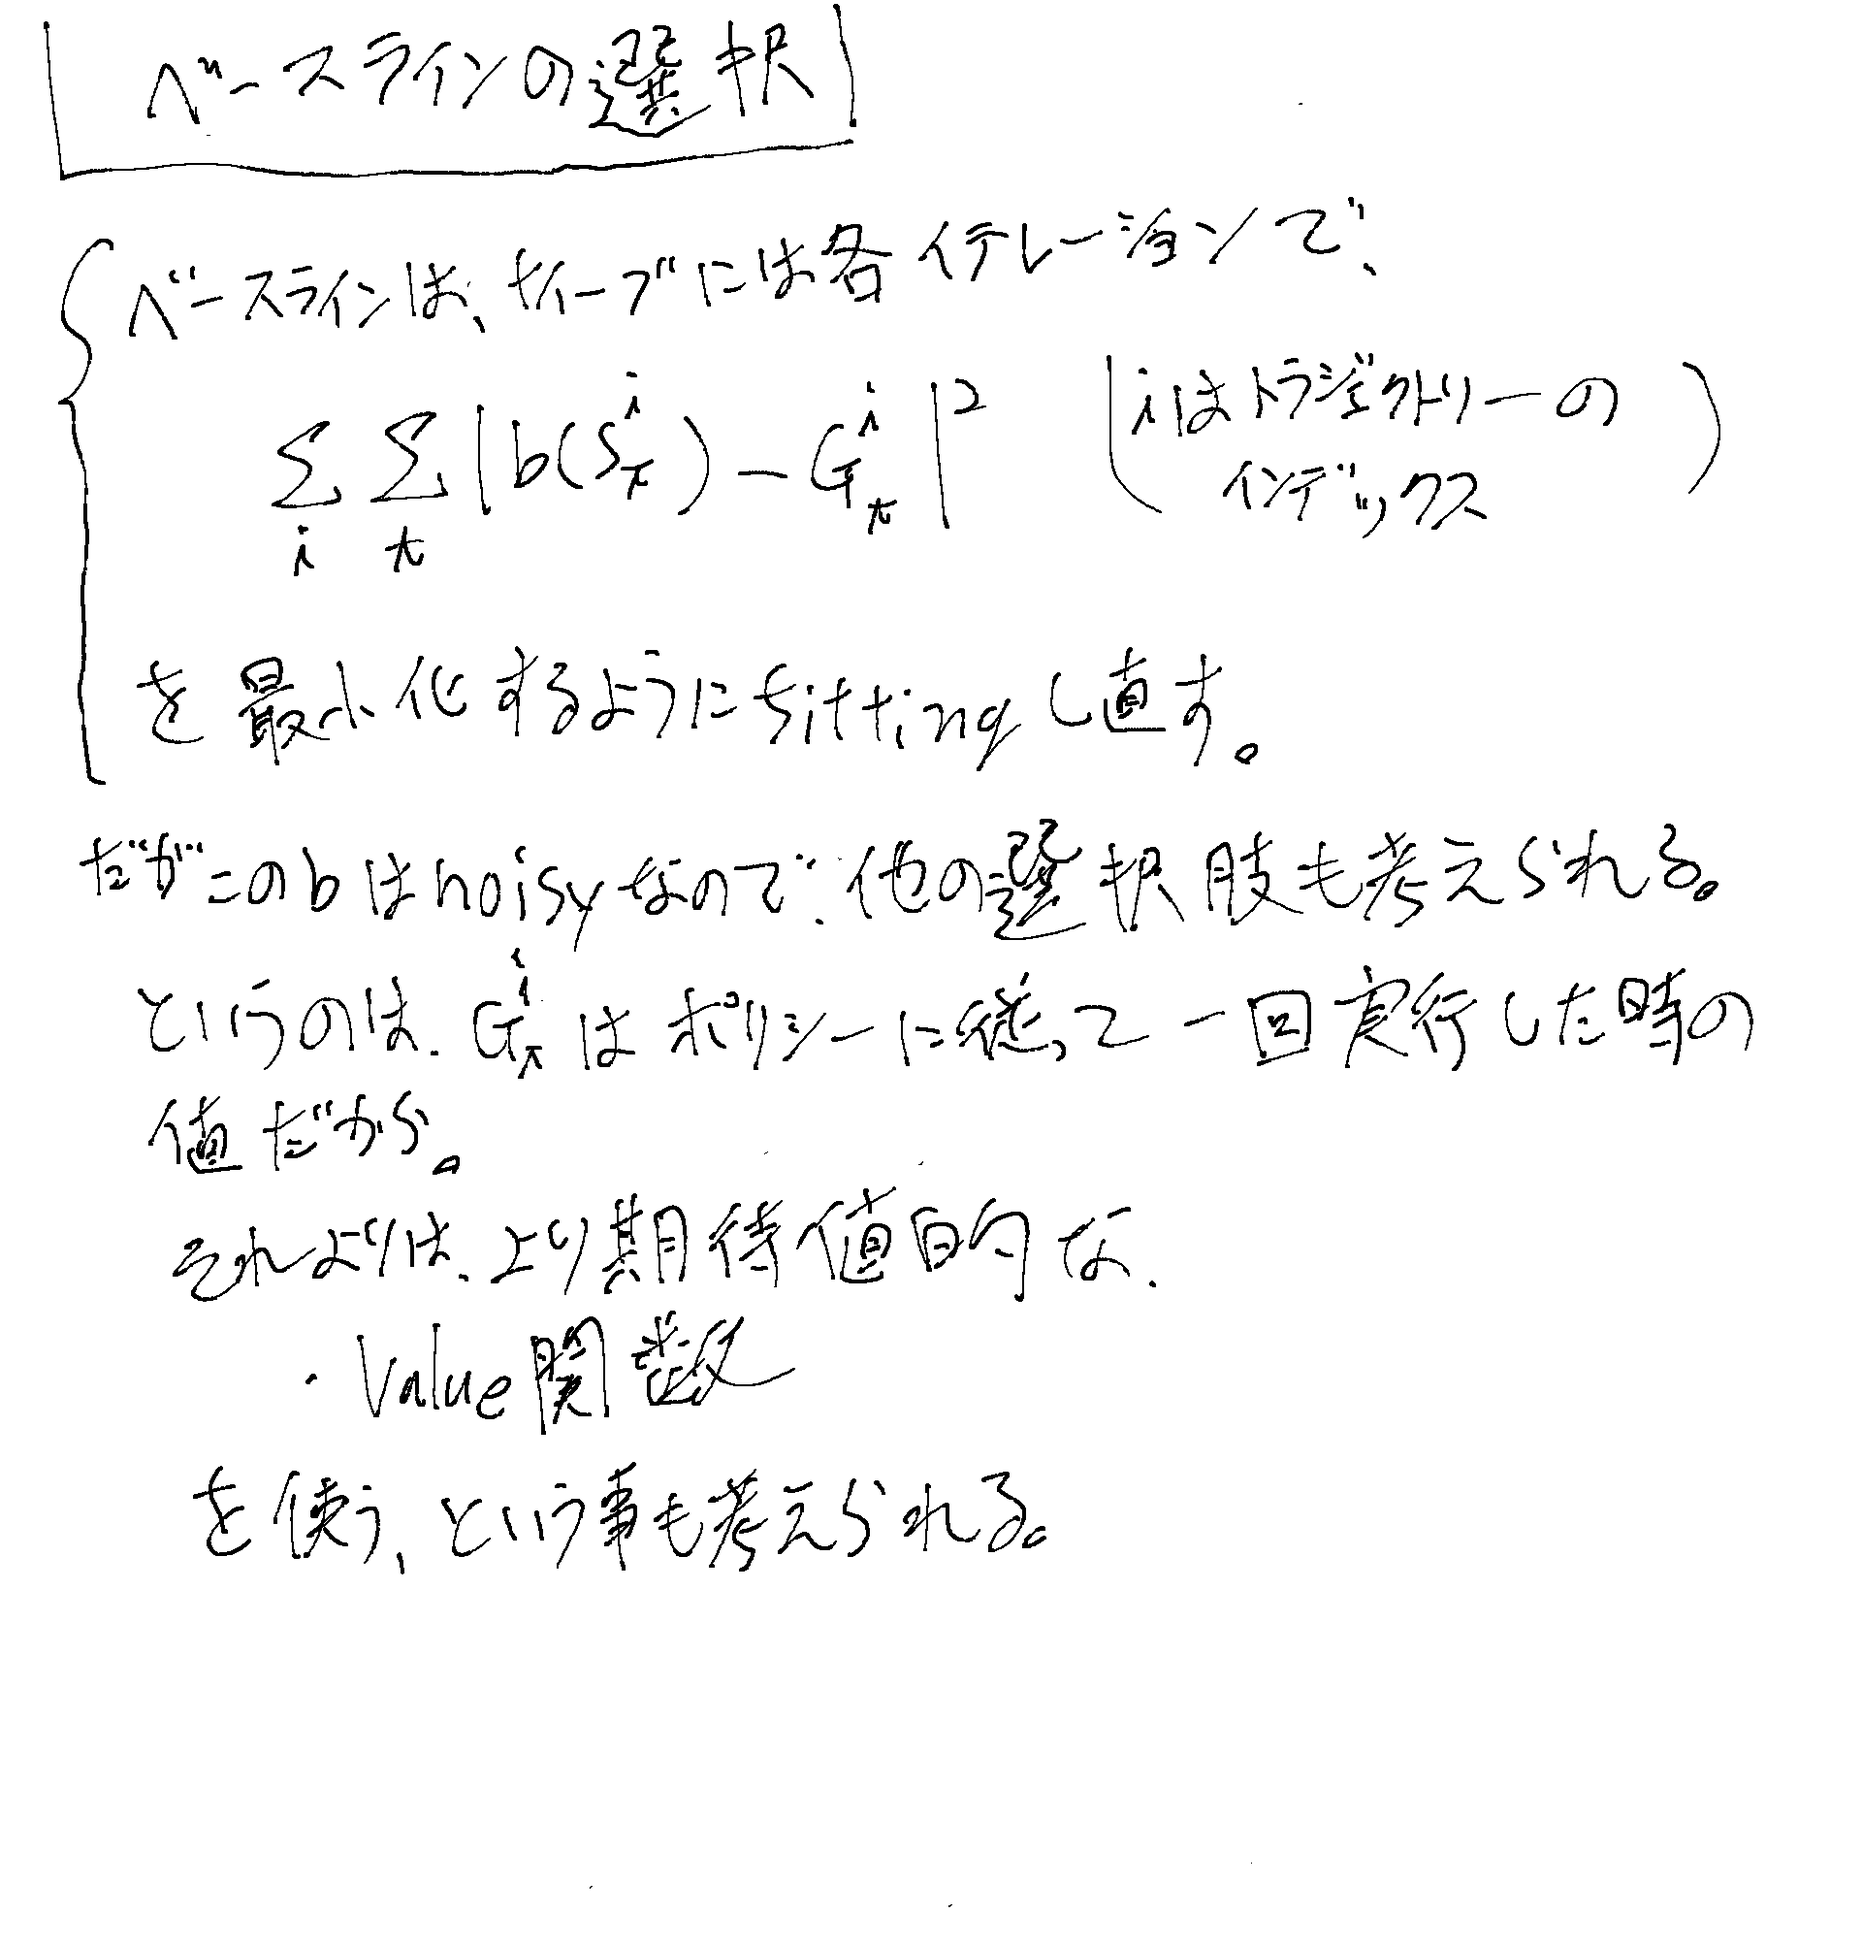
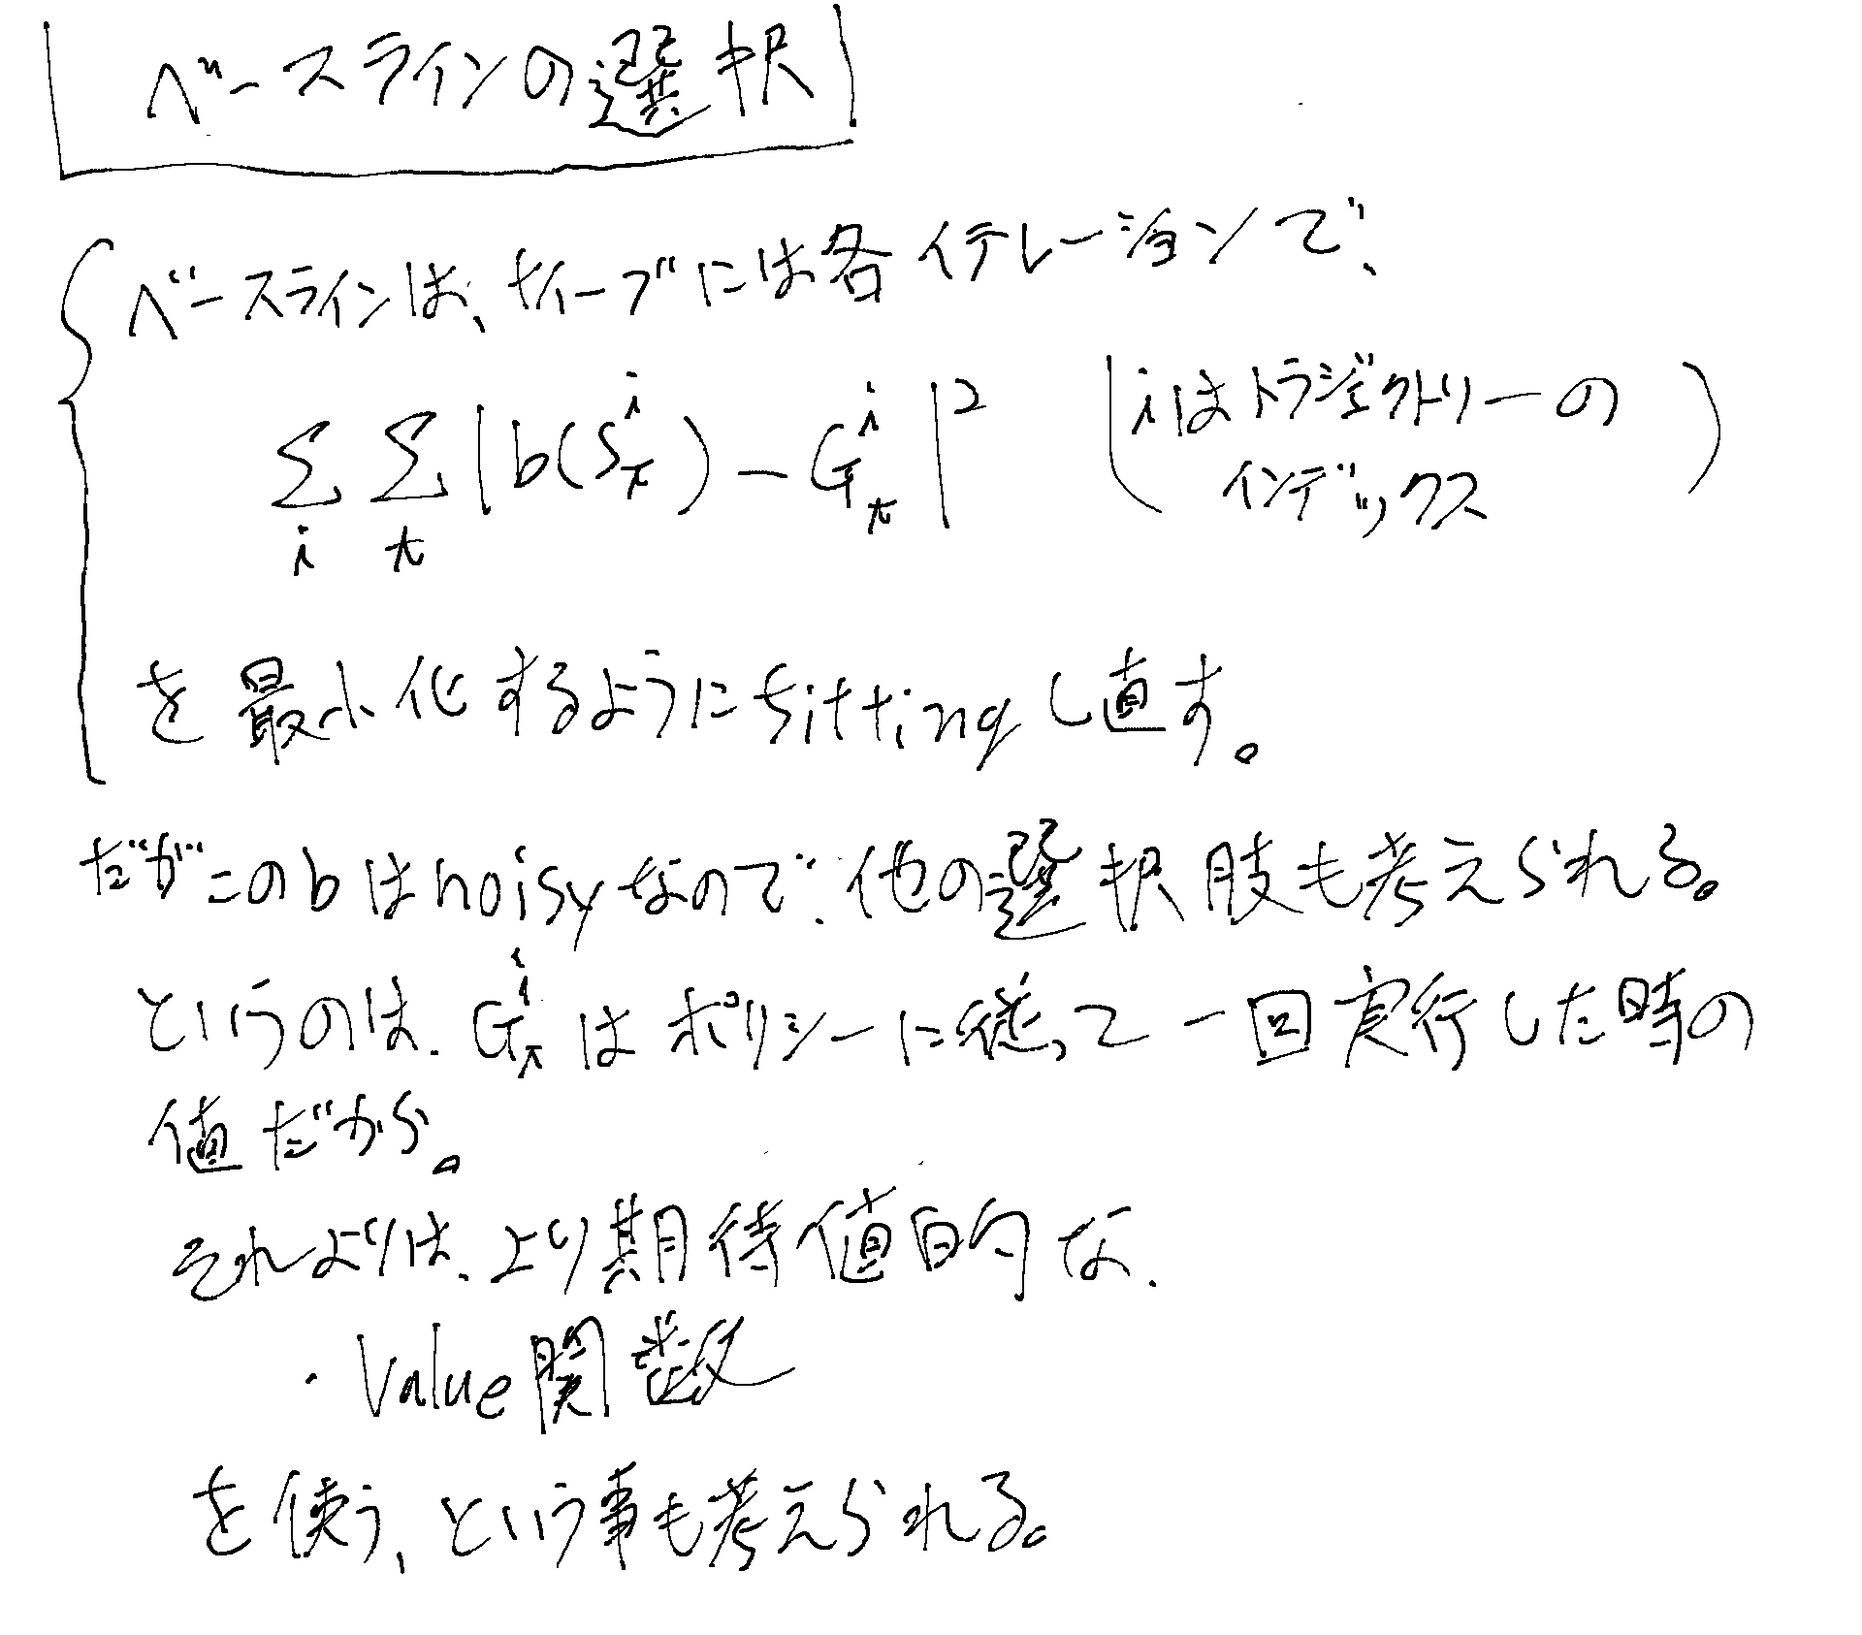
update

diff --git a/wiki_src/PolicyGradient.md b/wiki_src/PolicyGradient.md
@@ -1,0 +1,60 @@
+[[強化学習]]の[[PolicySearch]]で、Policy Gradientを使う手法についてまとめる。
+
+## Policy Gradientの手法、一般的な記述
+
+![imgs/CS234Lec5/0004.png](imgs/CS234Lec5/0004.png)
+
+## PolicyベースなRLの、他の手法と比較した特徴
+
+![imgs/CS234Lec5/0005.png](imgs/CS234Lec5/0005.png)
+
+## 微分可能ポリシーとLikelihoodレシオ
+
+ポリシーがパラメータで微分出来る時の事を考える。
+
+### 微分可能ポリシーのValue関数
+
+![imgs/CS234Lec5/0006.png](imgs/CS234Lec5/0006.png)
+
+### Likelihoodレシオによるパラメータ算出
+
+Vからポリシーのパラメータを求めたい。実際に得られるデータから計算出来るように、既知のものだけ残るように計算を試みる。
+Vの具体的な形が分かればパラメータで微分してgrad descentすればいいいのだが、Vは分からない。
+
+そこで得られたデータであるリワードなどで書き直して変形していく。
+
+![imgs/CS234Lec5/0007.png](imgs/CS234Lec5/0007.png)
+![imgs/CS234Lec5/0008.png](imgs/CS234Lec5/0008.png)
+
+ポリシーとリターンだけの式の期待値になった。
+
+### スコア関数
+
+ポリシーの部分はスコア関数と呼ばれるものの形になっている。likelihood ratioを式変形しただけで同じ式っぽいが。
+
+とにかくスコア関数についていろいろ調べる。
+
+![imgs/CS234Lec5/0009.png](imgs/CS234Lec5/0009.png)
+![imgs/CS234Lec5/0010.png](imgs/CS234Lec5/0010.png)
+
+### Likelihoodレシオとスコア関数を用いたPolicy Grad法のまとめ
+
+![imgs/CS234Lec5/0011.png](imgs/CS234Lec5/0011.png)
+
+### スコア関数によるアップデートの解釈
+
+スコア関数を中心にアップデートの式を解釈してみる。
+
+![imgs/CS234Lec5/0012.png](imgs/CS234Lec5/0012.png)
+
+値が良いxを増やすようにパラメータを動かしている、と解釈出来る。
+
+### Policy Gradient定理
+
+ここまでの計算は、より一般的な形で示されている。
+
+![imgs/CS234Lec5/0013.png](imgs/CS234Lec5/0013.png)
+
+## 時系列構造
+
+[[時系列構造を考慮に入れたPolicyGradient法]]

diff --git a/wiki_src/PolicySearch.md b/wiki_src/PolicySearch.md
@@ -31,26 +31,24 @@
 
 Policy-Basedなやり方なら、最適なポリシーを学習しうる。
 
-
 ![imgs/CS234Lec5/0001.png](imgs/CS234Lec5/0001.png)
+
+このようなケースで学習出来るようなアルゴリズムを考える。
+
+## 問題設定
+
 ![imgs/CS234Lec5/0002.png](imgs/CS234Lec5/0002.png)
+
+## Gradient無しのポリシー最適化手法
+
+Policy Gradientの話にはいる前に、Gradient無しの最適化を概観しておく。
+
 ![imgs/CS234Lec5/0003.png](imgs/CS234Lec5/0003.png)
-![imgs/CS234Lec5/0004.png](imgs/CS234Lec5/0004.png)
-![imgs/CS234Lec5/0005.png](imgs/CS234Lec5/0005.png)
-![imgs/CS234Lec5/0006.png](imgs/CS234Lec5/0006.png)
-![imgs/CS234Lec5/0007.png](imgs/CS234Lec5/0007.png)
-![imgs/CS234Lec5/0008.png](imgs/CS234Lec5/0008.png)
-![imgs/CS234Lec5/0009.png](imgs/CS234Lec5/0009.png)
-![imgs/CS234Lec5/0010.png](imgs/CS234Lec5/0010.png)
-![imgs/CS234Lec5/0011.png](imgs/CS234Lec5/0011.png)
-![imgs/CS234Lec5/0012.png](imgs/CS234Lec5/0012.png)
-![imgs/CS234Lec5/0013.png](imgs/CS234Lec5/0013.png)
-![imgs/CS234Lec5/0014.png](imgs/CS234Lec5/0014.png)
-![imgs/CS234Lec5/0015.png](imgs/CS234Lec5/0015.png)
-![imgs/CS234Lec5/0016.png](imgs/CS234Lec5/0016.png)
-![imgs/CS234Lec5/0017.png](imgs/CS234Lec5/0017.png)
-![imgs/CS234Lec5/0018.png](imgs/CS234Lec5/0018.png)
-![imgs/CS234Lec5/0019.png](imgs/CS234Lec5/0019.png)
-![imgs/CS234Lec5/0020.png](imgs/CS234Lec5/0020.png)
-![imgs/CS234Lec5/0021.png](imgs/CS234Lec5/0021.png)
-![imgs/CS234Lec5/0022.png](imgs/CS234Lec5/0022.png)
+
+簡単に使えて意外と優秀、というのは忘れないでおきたい。
+
+## Policy Gradient
+
+- [[PolicyGradient]] Likelihoodレシオやスコア関数
+- [[時系列構造を考慮に入れたPolicyGradient法]] REINFORCEとベースライン、Actor-Criticなど。
+

diff --git a/wiki_src/時系列構造を考慮に入れたPolicyGradient法.md b/wiki_src/時系列構造を考慮に入れたPolicyGradient法.md
@@ -1,0 +1,44 @@
+[[強化学習]]の[[PolicySearch]]の[[PolicyGradient]]法で、時系列構造を考慮に入れる事を考える。
+
+[Stanford CS234 Reinforcement Learning I Policy Search 2 I 2024 I Lecture 6 - YouTube](https://www.youtube.com/watch?v=8PwvNQ5WS-o&list=PLoROMvodv4rN4wG6Nk6sNpTEbuOSosZdX&index=6)
+
+## 時系列構造を考慮に入れたPolicy Grad（REINFORCE）
+
+[[PolicyGradient]]でやったLikelihoodレシオなどを用いた計算では、時系列構造が考慮に入っていない。
+時系列構造を考慮に入れてVのgradを計算してみる。
+
+![imgs/CS234Lec5/0014.png](imgs/CS234Lec5/0014.png)
+![imgs/CS234Lec5/0015.png](imgs/CS234Lec5/0015.png)
+
+## REINFORCE(モンテカルロポリシーGradient）
+
+![imgs/CS234Lec5/0016.png](imgs/CS234Lec5/0016.png)
+
+### Gが高variantになる問題の二つの対策
+
+Gはトラジェクトリー一つにつき一回計算する感じなので、varianceが高くなって収束までに大量のデータが必要となる。
+この対策に二つの方法が考えられている。
+
+- baseline
+- MCリターンの代替を考える（Actor-Critic）
+
+## baseline
+
+![imgs/CS234Lec5/0017.png](imgs/CS234Lec5/0017.png)
+
+### baselineはバイアスを生じさせない
+
+![imgs/CS234Lec5/0018.png](imgs/CS234Lec5/0018.png)
+![imgs/CS234Lec5/0019.png](imgs/CS234Lec5/0019.png)
+
+### baselineの選択
+
+![imgs/CS234Lec5/0020.png](imgs/CS234Lec5/0020.png)
+
+## Actor-Critic
+
+![imgs/CS234Lec5/0021.png](imgs/CS234Lec5/0021.png)
+
+### CriticにTD構造を入れる
+
+![imgs/CS234Lec5/0022.png](imgs/CS234Lec5/0022.png)
